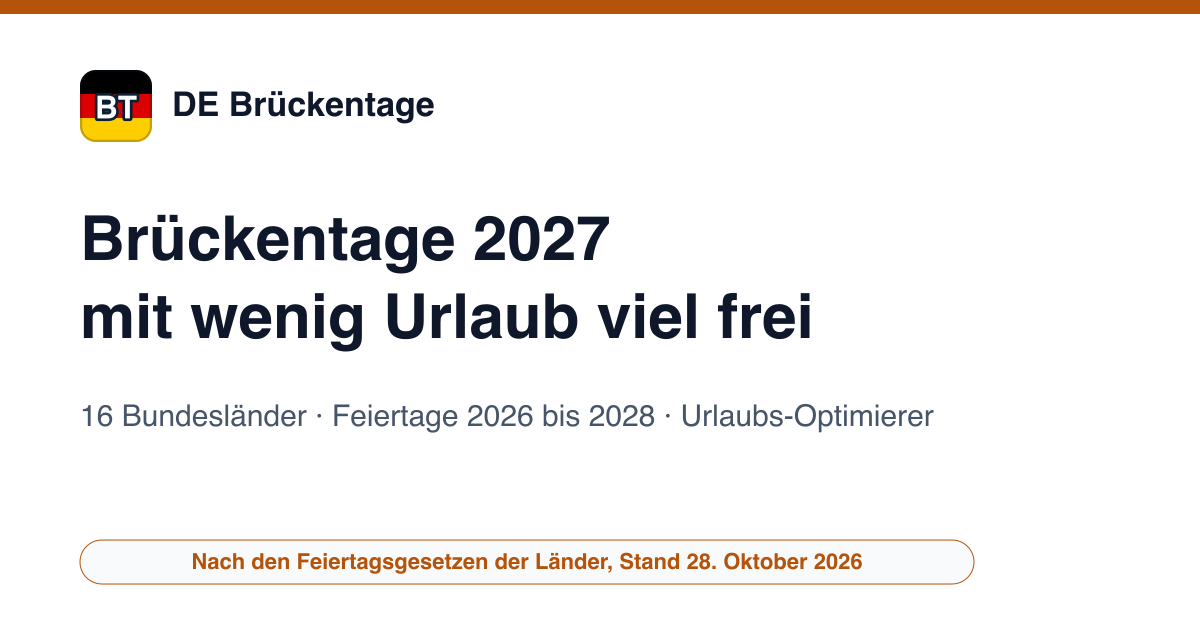
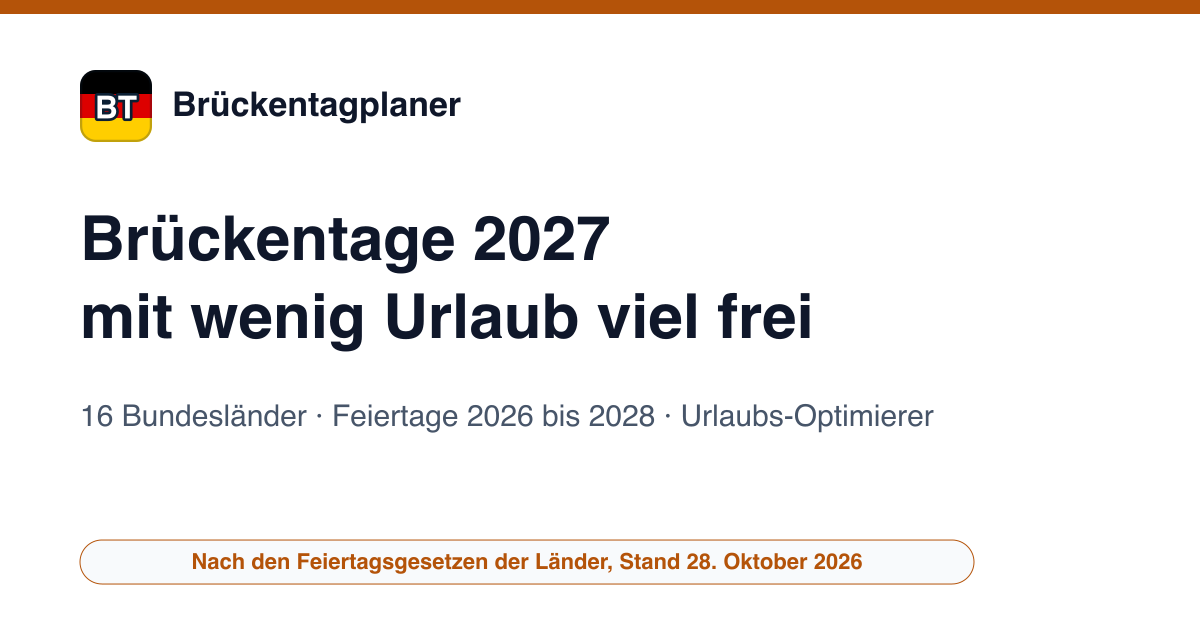
Renommage : de-brueckentage devient brueckentagplaner.de (Brückentagplaner)
Adresse, nom affiché, contact@brueckentagplaner.de, CNAME, .nojekyll, robots,
images OG régénérées, ping IndexNow après déploiement ; fichier de débogage retiré.

Changed region(s): [[0.1542, 0.1206, 0.4008, 0.2111]]

diff --git a/src/data/site-config.ts b/src/data/site-config.ts
@@ -1,8 +1,8 @@
 /** Configuration centrale du site (générée par new-site.py). */
-export const SITE_URL = "https://de-brueckentage.example";
-export const SITE_NAMES: Record<string, string> = {"de": "DE Brückentage", "en": "DE Brückentage"};
+export const SITE_URL = "https://brueckentagplaner.de";
+export const SITE_NAMES: Record<string, string> = {"de": "Brückentagplaner", "en": "Brückentagplaner"};
 // Partie du nom affichée en couleur dans l'en-tête (RECETTE §10.3), « » pour aucune.
-export const BRAND_ACCENT = "Brückentage";
+export const BRAND_ACCENT = "planer";
 /** Locale des nombres et des dates : anglais britannique pour la version anglaise. */
 export const NUM_TAGS: Record<string, string> = {"de": "de-DE", "en": "en-GB"};
 export const LANG_TAGS: Record<string, string> = {"de": "de-DE", "en": "en-DE"};
@@ -20,7 +20,7 @@ export const AUTHOR_DESC: Record<string, string> = {"de": "Radif Partners liest 
  *  themes reellement traites par le site, pas une liste de mots-cles : un sujet
  *  declare ici sans page qui le couvre est une declaration fausse. */
 export const KNOWS_ABOUT: Record<string, string[]> = {"de": ["Gesetzliche Feiertage der 16 Bundesländer", "Brückentage und Urlaubsplanung", "Berechnung des Osterdatums (Gaußsche Osterformel)", "Sommerzeit und Zeitumstellung in Deutschland", "Arbeitstage und Kalenderwochen nach ISO 8601"], "en": ["Statutory public holidays of the 16 German states", "Bridge days and leave planning", "Computing the date of Easter (Gauss's algorithm)", "Daylight saving time in Germany", "Working days and ISO 8601 week numbers"]};
-export const CONTACT_EMAIL = "kontakt@de-brueckentage.example";
+export const CONTACT_EMAIL = "contact@brueckentagplaner.de";
 export const THEME_COLOR = '#B45309';
 export const LOGO_SYMBOL = 'BT';
 export const BING_VERIFY_CODE = '';
